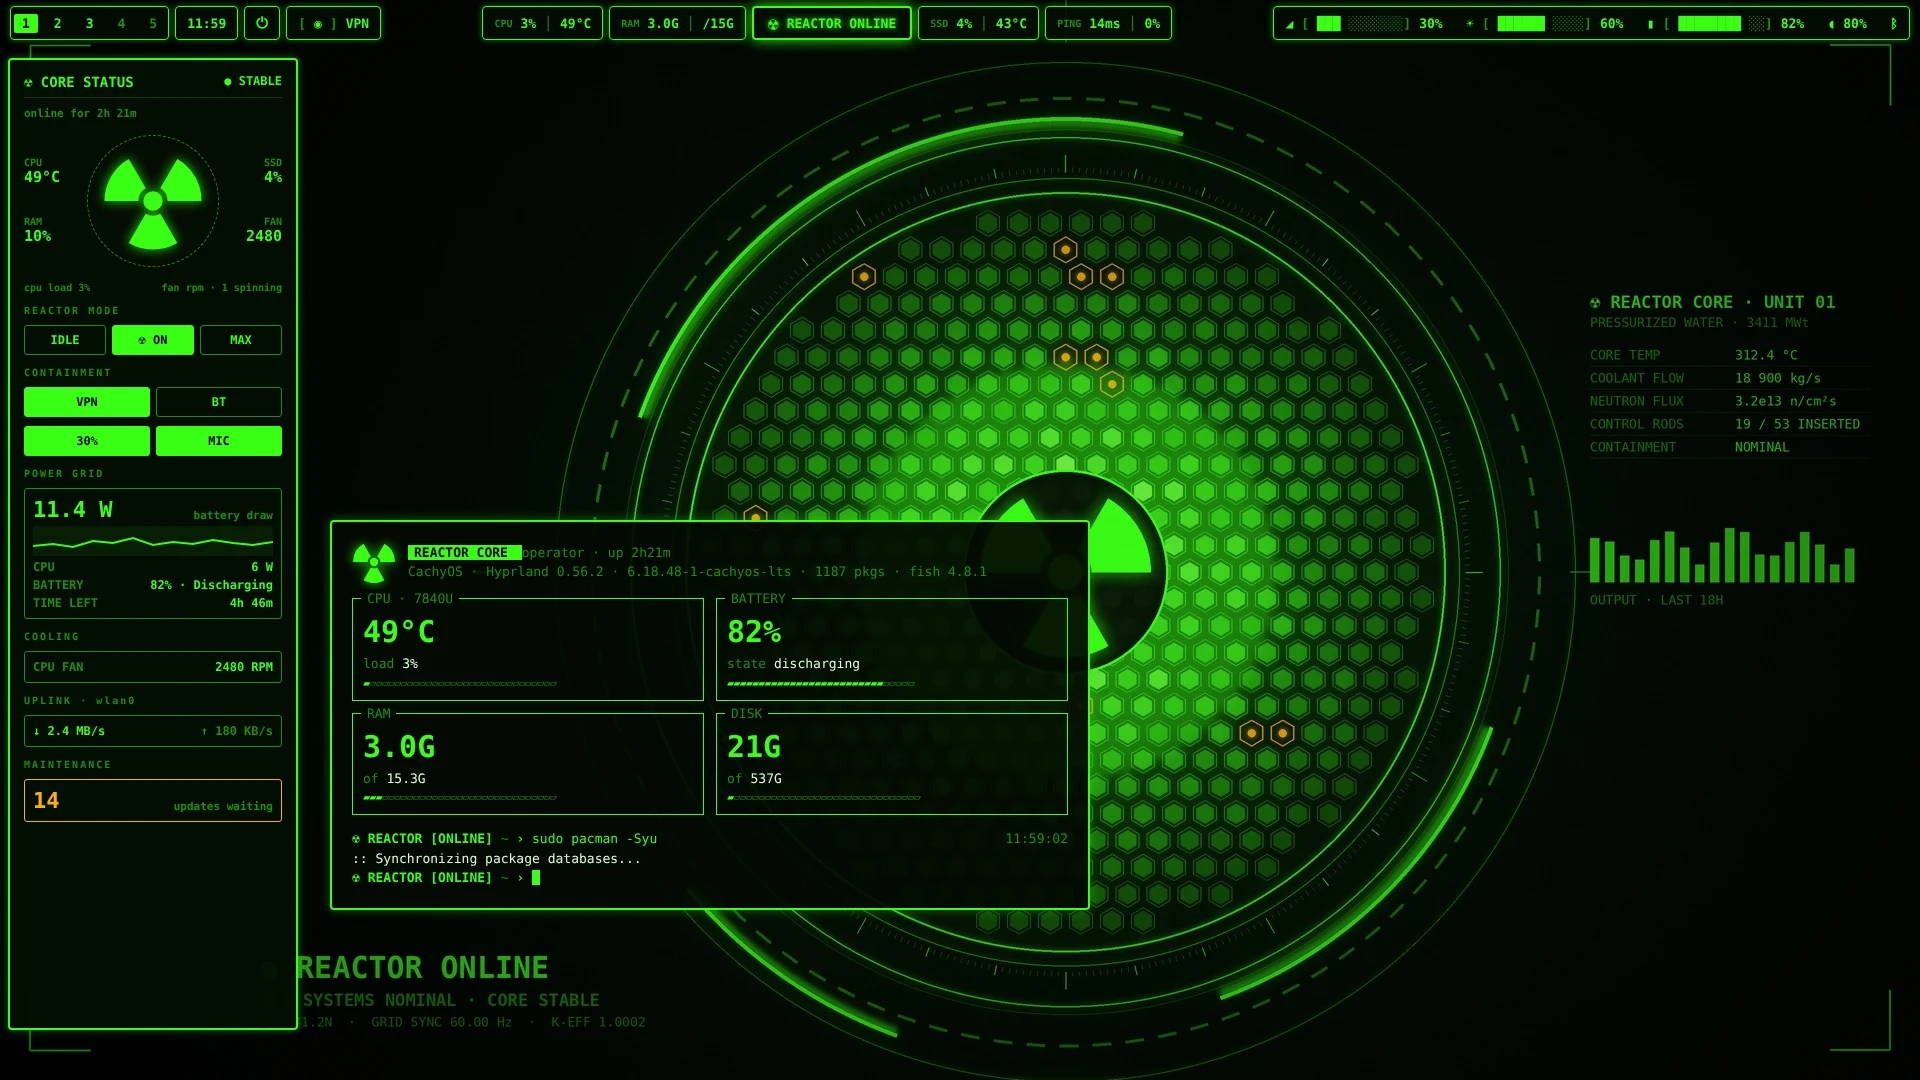
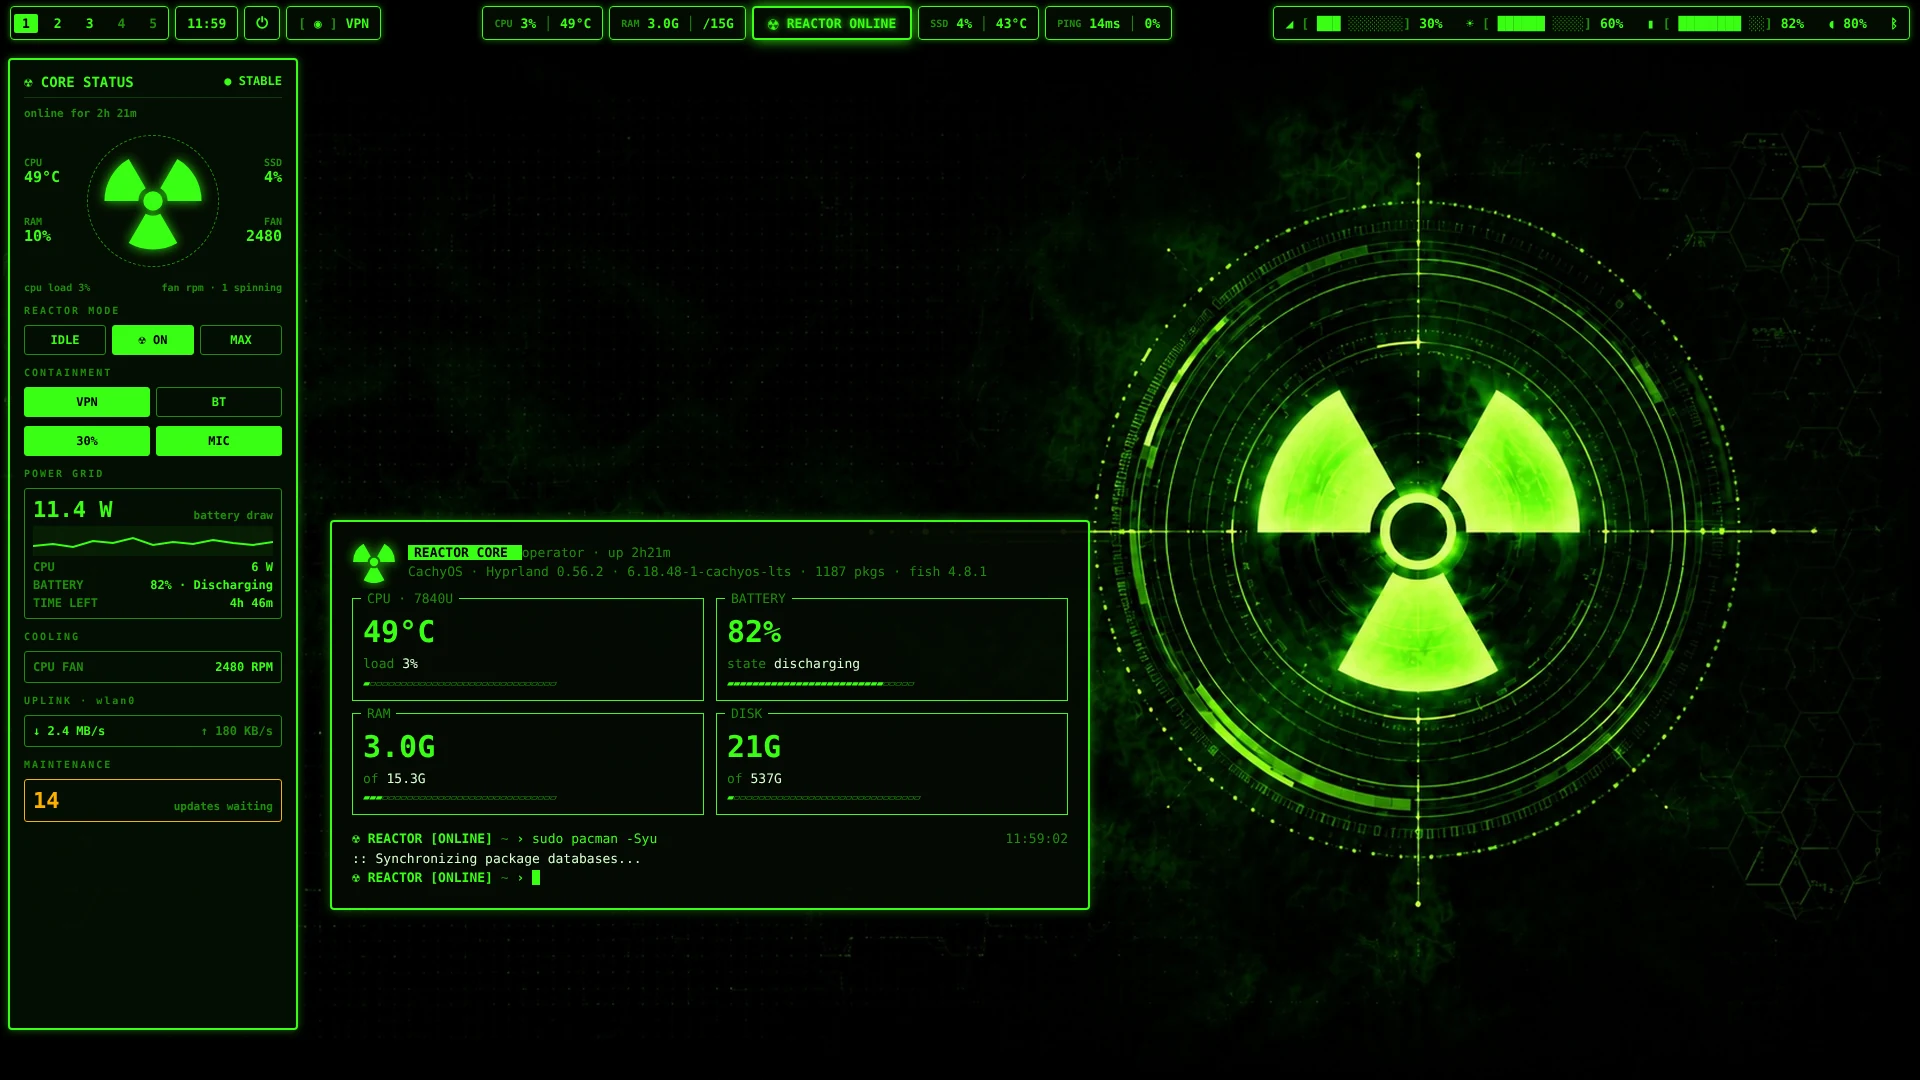
Use my wallpaper in the preview pictures

Changed region(s): [[0.3125, 0.0917, 0.9688, 0.9778], [0.1562, 0.8861, 0.3125, 0.9472]]

diff --git a/README.md b/README.md
@@ -1,7 +1,7 @@
 # ☢ Custom-Linux-Waybar — REACTOR
 
 <p align="center">
-  <img src="preview.webp" alt="REACTOR desktop: green nuclear-reactor Waybar, Super+Z sidebar, terminal dashboard and 4K wallpaper" width="100%">
+  <img src="preview.webp" alt="REACTOR desktop: green nuclear-reactor Waybar, Super+Z sidebar and terminal dashboard over a radiation-symbol wallpaper" width="100%">
 </p>
 
 A complete **nuclear-reactor themed Hyprland rice** for CachyOS / Arch Linux. 🐧⚡
